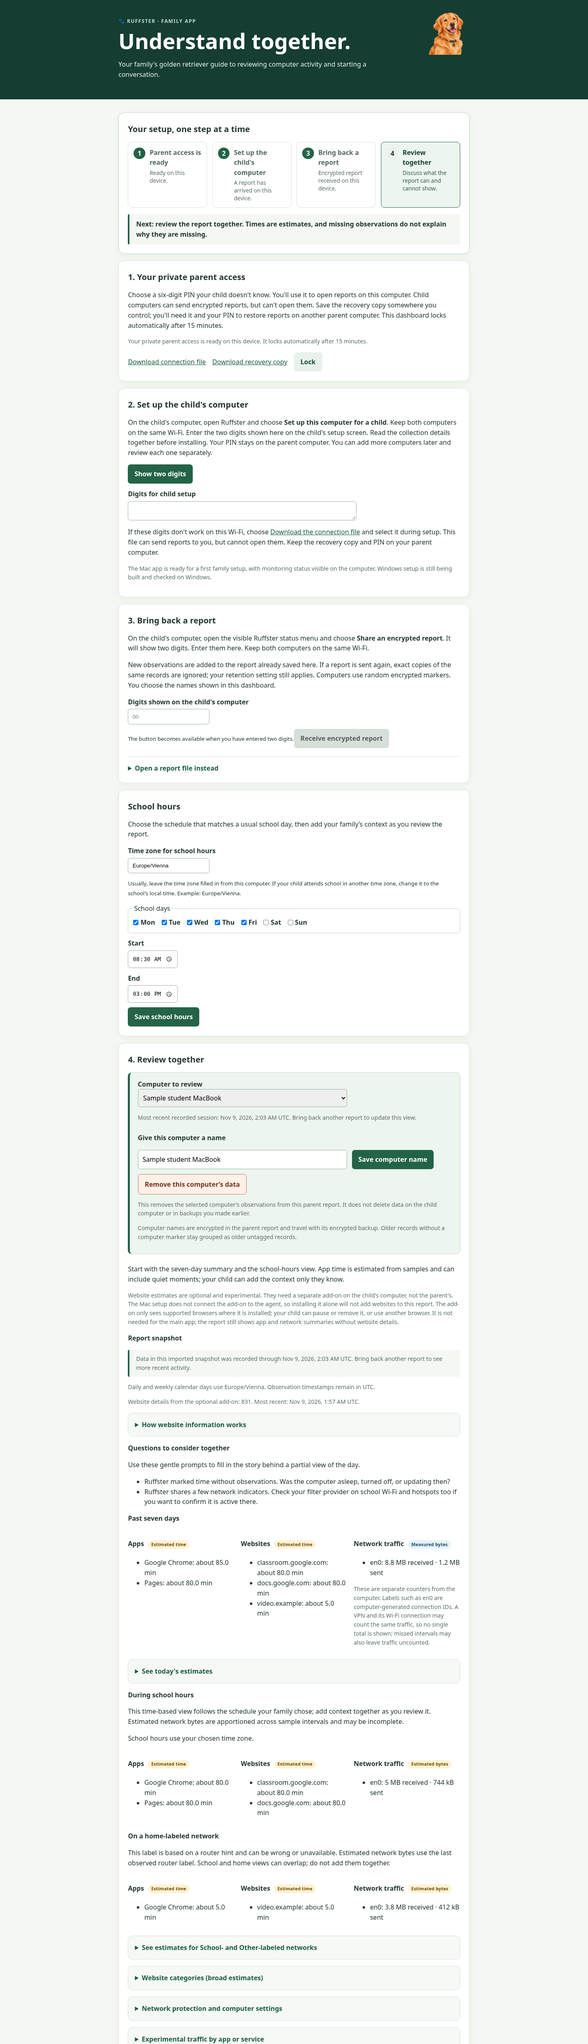
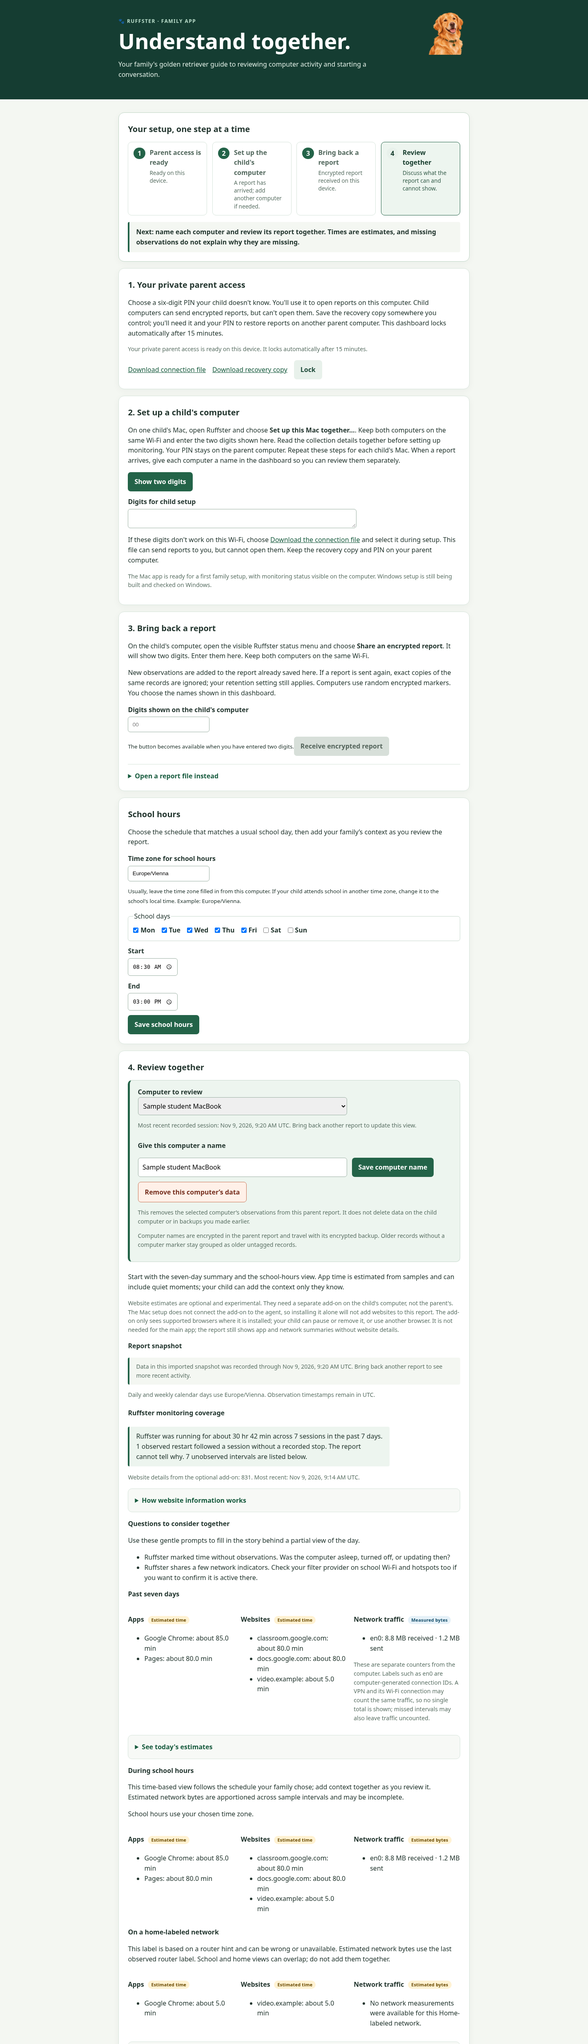
Report observed monitoring restarts

Changed region(s): [[0.2188, 0.0936, 0.7812, 1.0]]

diff --git a/family_activity/parent_assets/index.html b/family_activity/parent_assets/index.html
@@ -18,7 +18,7 @@
 <div class="device-picker"><label for="report-device">Computer to review</label><select id="report-device"></select><p id="device-last-seen" class="fine"></p><form id="device-label-form"><label for="device-label">Give this computer a name</label><input id="device-label" type="text" maxlength="48" autocomplete="off" required><button type="submit">Save computer name</button></form><button id="delete-computer" class="secondary danger" type="button" hidden>Remove this computer’s data</button><p id="delete-computer-help" class="fine">This removes the selected computer’s observations from this parent report. It does not delete data on the child computer or in backups you made earlier.</p><p class="fine">Computer names are encrypted in the parent report and travel with its encrypted backup. Older records without a computer marker stay grouped as older untagged records.</p></div>
 <p>Start with the seven-day summary and the school-hours view. App time is estimated from samples and can include quiet moments; your child can add the context only they know.</p>
 <p class="fine">Website estimates are optional and experimental. They need a separate add-on on the child's computer, not the parent's. The Mac setup does not connect the add-on to the agent, so installing it alone will not add websites to this report. The add-on only sees supported browsers where it is installed; your child can pause or remove it, or use another browser. It is not needed for the main app; the report still shows app and network summaries without website details.</p>
-<h3>Report snapshot</h3><p id="snapshot-note" class="fine"></p><p id="report-timezone-note" class="fine"></p><p id="website-status" class="fine" role="status" aria-live="polite"></p>
+<h3>Report snapshot</h3><p id="snapshot-note" class="fine"></p><p id="report-timezone-note" class="fine"></p><h4>Ruffster monitoring coverage</h4><p id="monitoring-summary" class="coverage-summary" role="status" aria-live="polite"></p><p id="website-status" class="fine" role="status" aria-live="polite"></p>
 <details><summary>How website information works</summary><p>The add-on runs inside supported browsers on the child's computer. It reports domain names only, not full addresses or page contents. Your child can pause or remove it. If a report has no website observations, it cannot tell whether the add-on was paused, disconnected, or simply had nothing to report.</p></details>
 <h3>Questions to consider together</h3><p>Use these gentle prompts to fill in the story behind a partial view of the day.</p><ul id="conversation-prompts"></ul>
 <h3>Past seven days</h3><div class="grid"><div><h4>Apps <span class="measurement-tag estimate">Estimated time</span></h4><ul id="apps-week"></ul></div><div><h4>Websites <span class="measurement-tag estimate">Estimated time</span></h4><ul id="sites-week"></ul></div><div><h4>Network traffic <span class="measurement-tag measured">Measured bytes</span></h4><ul id="traffic-week-summary"></ul><p class="fine">These are separate counters from the computer. Labels such as en0 are computer-generated connection IDs. A VPN and its Wi-Fi connection may count the same traffic, so no single total is shown; missed intervals may also leave traffic uncounted.</p></div></div>

diff --git a/family_activity/parent_assets/app.js b/family_activity/parent_assets/app.js
@@ -239,12 +239,26 @@ async function render() {
   const freshness = data.recorded_through
     ? `Data in this imported snapshot was recorded through ${formatUtcTimestamp(data.recorded_through)}. Bring back another report to see more recent activity.`
     : 'No dated activity has been added to this report yet.';
-  const runtime = data.agent_runtime || {seconds:0,sessions:0,gaps:0};
+  const runtime = data.agent_runtime || {seconds:0,sessions:0,gaps:0,restarts:0};
   const runtimeHours = Math.floor(runtime.seconds / 3600);
   const runtimeMinutes = Math.floor((runtime.seconds % 3600) / 60);
+  const restartCount = runtime.restarts || 0;
+  const restartSummary = restartCount === 1
+    ? '1 observed restart followed a session without a recorded stop'
+    : restartCount === 0
+      ? 'No restarts followed a session without a recorded stop'
+      : `${restartCount} observed restarts followed sessions without recorded stops`;
+  const sessionLabel = `${runtime.sessions} session${runtime.sessions === 1 ? '' : 's'}`;
+  const intervalSummary = runtime.gaps === 1
+    ? '1 unobserved interval is listed below'
+    : `${runtime.gaps} unobserved intervals are listed below`;
+  const runtimeSummary = runtime.sessions
+    ? `Ruffster was running for about ${runtimeHours} hr ${runtimeMinutes} min across ${sessionLabel} in the past ${runtime.days} days. ${restartSummary}. The report cannot tell why. ${intervalSummary}.`
+    : `No Ruffster uptime was recorded in the past ${runtime.days || 7} days.`;
+  $('monitoring-summary').textContent = runtimeSummary;
   const runtimeText = runtime.sessions
-    ? `Recorded agent runtime in the past ${runtime.days} days: about ${runtimeHours} hr ${runtimeMinutes} min across ${runtime.sessions} session(s), with ${runtime.gaps} observed gap(s). Ruffster uptime shows when the agent was running; it is separate from estimated app time.`
-    : `No Ruffster uptime was recorded for the past ${runtime.days || 7} days.`;
+    ? `${runtimeSummary} A restart record does not say why the earlier session ended; that can follow a crash, sleep, power-off, or another interruption. Ruffster uptime shows when the agent was running; it is separate from estimated app time.`
+    : runtimeSummary;
   $('snapshot-note').textContent = freshness;
   $('report-timezone-note').textContent = `Daily and weekly calendar days use ${data.report_timezone || 'UTC'}. Observation timestamps remain in UTC.`;
   const websiteObservations = data.website_observations || {count: 0, latest_at: null};

diff --git a/native/macos/status.swift b/native/macos/status.swift
@@ -169,7 +169,7 @@ final class StatusController: NSObject, NSApplicationDelegate {
         let processNetwork = ProcessInfo.processInfo.environment["FAMILY_ACTIVITY_PROCESS_NETWORK"] == "1"
             ? " Optional app and service network totals are on. Some traffic may appear under helper apps; websites aren't identified."
             : " Optional app and service network totals are off."
-        alert.informativeText = "Ruffster helps your family understand computer use. While you're signed in, it records the name and identifier of the app in front, total network bytes by interface, a private hint when the default router changes, and basic DNS, proxy, and system VPN indicators.\(processNetwork) Website domains are not part of this Mac setup; a separate experimental browser add-on is not connected to this report. The router hint does not show where the computer is, and the router address itself is not saved. Reports are locked on this Mac and can be opened on your parent's computer. Ruffster doesn't record screenshots, typing, messages, microphone, camera, or full website addresses. The menu-bar paw shows when recent samples have been saved. If it says monitoring is paused or disappears, some time may be missing from the report; let your parent know."
+        alert.informativeText = "Ruffster helps your family understand computer use. While you're signed in, it records the name and identifier of the app in front, total network bytes by interface, a private hint when the default router changes, and basic DNS, proxy, and system VPN indicators.\(processNetwork) Website domains are not part of this Mac setup; a separate experimental browser add-on is not connected to this report. The router hint does not show where the computer is, and the router address itself is not saved. Reports are locked on this Mac and can be opened on your parent's computer. Ruffster doesn't record screenshots, typing, messages, microphone, camera, or full website addresses. The menu-bar paw shows when recent samples have been saved. The parent report may show when a new Ruffster session followed an earlier session without a recorded stop, but it cannot tell whether that was a crash, sleep, power-off, or something else. If the paw says monitoring is paused or disappears, some time may be missing from the report; let your parent know."
         alert.addButton(withTitle: "OK")
         NSApplication.shared.activate(ignoringOtherApps: true)
         alert.runModal()

diff --git a/family_activity/parent_assets/app.css b/family_activity/parent_assets/app.css
@@ -10,7 +10,7 @@ details{margin-top:1.25rem;padding-top:1rem;border-top:1px solid #d6e4da}summary
 .measurement-tag{display:inline-block;vertical-align:middle;margin-left:.35rem;padding:.12rem .5rem;border-radius:999px;font-size:.68rem;font-weight:700;line-height:1.5;letter-spacing:.02em;white-space:nowrap}.measurement-tag.estimate{background:#fff2d3;color:#6a4b00}.measurement-tag.measured{background:#e6f1f8;color:#164f6b}.measurement-tag.observed{background:#e8f3eb;color:#1b5b3c}
 .restore-box{margin-top:1.3rem;padding:1.1rem;background:#f4f7f2;border:1px solid #d6e4da;border-radius:10px}.restore-box h3{margin-top:0}.restore-box input[type=password]{width:min(100%,28rem)}
 .backup-required{margin:1rem 0;padding:1rem 1.15rem;background:#fff5df;border:1px solid #e5c77d;border-left:5px solid #b87919;border-radius:10px}.backup-required h3{margin:.1rem 0 .35rem;color:#543900}.backup-required p{max-width:68ch}.backup-confirm-label{display:flex;align-items:flex-start;gap:.6rem;max-width:55rem}.backup-confirm-label input{flex:0 0 auto;margin:.25rem 0 0}
-.report-card>details{margin:1rem 0;padding:1rem;background:#f7f9f6;border:1px solid #d6e4da;border-radius:10px}.report-card>details>summary{font-size:1rem}.report-card>details>h3:first-of-type{margin-top:1.5rem}.report-card>details[open]>summary{margin-bottom:.7rem}.report-card #snapshot-note{padding:.7rem 1rem;background:#f4f7f2;border-left:4px solid #236348;border-radius:4px}.report-card #coverage{max-width:70ch}
+.report-card>details{margin:1rem 0;padding:1rem;background:#f7f9f6;border:1px solid #d6e4da;border-radius:10px}.report-card>details>summary{font-size:1rem}.report-card>details>h3:first-of-type{margin-top:1.5rem}.report-card>details[open]>summary{margin-bottom:.7rem}.report-card #snapshot-note{padding:.7rem 1rem;background:#f4f7f2;border-left:4px solid #236348;border-radius:4px}.report-card #monitoring-summary{max-width:70ch;padding:.7rem 1rem;background:#edf5ef;border-left:4px solid #236348;border-radius:4px}.report-card #coverage{max-width:70ch}
 
 .mascot{float:right;width:104px;height:104px;object-fit:contain;margin:-.5rem 0 .5rem 1rem}@media(max-width:480px){.mascot{width:76px;height:76px}}
 

diff --git a/docs/progress.html b/docs/progress.html
@@ -62,7 +62,7 @@
     <p>These examples use made-up parent and activity data to show the current setup and report screens.</p>
     <div class="detail-grid">
      <figure class="photo-card"><a href="assets/parent-setup.png"><img src="assets/parent-setup.png" alt="Ruffster parent setup screen with a blank six-digit PIN form and recovery-copy instructions" loading="lazy"/></a><figcaption class="photo-caption">Parent access and recovery setup · synthetic example</figcaption></figure>
-     <figure class="photo-card"><a href="assets/parent-dashboard.png"><img src="assets/parent-dashboard.png" alt="Ruffster parent report with synthetic app and network observations, labeled estimates, and conversation prompts" loading="lazy"/></a><figcaption class="photo-caption">Parent report and discussion prompts · synthetic example</figcaption></figure>
+     <figure class="photo-card"><a href="assets/parent-dashboard.png"><img src="assets/parent-dashboard.png" alt="Ruffster parent report with synthetic app and network observations, monitoring uptime and a restart after an unclosed session, labeled estimates, and conversation prompts" loading="lazy"/></a><figcaption class="photo-caption">Parent report and discussion prompts · synthetic example</figcaption></figure>
     </div>
     <h2>Where to follow the work</h2>
     <ul>

diff --git a/native/macos/setup.swift b/native/macos/setup.swift
@@ -496,6 +496,8 @@ final class SetupController: NSObject, NSApplicationDelegate, NSWindowDelegate {
 
         The menu-bar status icon must stay visible to the child. Reports are locked on this Mac and can be opened on the parent's computer. Keep this app in its current location; moving it may stop monitoring.
 
+        The parent report may show when a new session followed an earlier session without a recorded stop. It cannot tell whether that was a crash, sleep, power-off, or another interruption.
+
         Choose the maximum time to keep detailed records here. Records are removed while monitoring runs; calendar-day rounding may remove them up to a day before that limit. Removing monitoring keeps the encrypted report and Ruffster connection details unless you choose to delete them. Reports already shared elsewhere and other copies are not affected.
         """
         disclosureText.setAccessibilityLabel("Ruffster collection and retention details")

diff --git a/tests/test_parent_app.py b/tests/test_parent_app.py
@@ -103,6 +103,8 @@ class ParentAppTests(unittest.TestCase):
         self.assertIn(b'During school hours', page)
         self.assertIn(b'Network protection and computer settings', page)
         self.assertIn(b'Monitoring coverage details', page)
+        self.assertIn(b'Ruffster monitoring coverage', page)
+        self.assertIn(b'id="monitoring-summary"', page)
         self.assertIn(b'id="snapshot-note"', page)
         self.assertIn(b'id="report-timezone-note"', page)
         self.assertIn(b'home router', page)
@@ -120,7 +122,7 @@ class ParentAppTests(unittest.TestCase):
         self.assertIn(b"/api/confirm-key-backup", script)
         self.assertIn(b"$('report-transfer').hidden = !status.unlocked", script)
         self.assertIn(b"status.has_report", script)
-        self.assertIn(b'Recorded agent runtime', script)
+        self.assertIn(b'Ruffster was running for about', script)
         self.assertIn(b'Ruffster uptime shows when the agent was running', script)
         self.assertIn(b'No website details were recorded for this period.', script)
         self.assertIn(b'No pauses are listed in this report.', script)
@@ -295,11 +297,12 @@ class ParentAppTests(unittest.TestCase):
         path = Path(self.tmp.name)/'source.db'
         writer = EncryptedAgentStore(path, decode(public), 30)
         from datetime import datetime, timedelta, timezone
-        sample = datetime.now(timezone.utc)
-        writer.event('start')
-        writer.event('foreground', application=['SYNTHETIC_PARENT_APP','test'])
-        writer.event('network_identity', identifier='c'*64)
-        writer.event('network_settings', dns_observed=True, proxy_indicator=False, vpn_indicator=None)
+        sample = datetime.now(timezone.utc) - timedelta(minutes=5)
+        writer.event('start', at=(sample-timedelta(seconds=30)).isoformat())
+        writer.event('foreground', application=['SYNTHETIC_PARENT_APP','test'], at=sample.isoformat())
+        writer.event('network_identity', identifier='c'*64, at=sample.isoformat())
+        writer.event('network_settings', dns_observed=True, proxy_indicator=False, vpn_indicator=None,
+                     at=sample.isoformat())
         writer.event('network', at=sample.isoformat(), intervals=[[
             (sample-timedelta(seconds=15)).isoformat(), sample.isoformat(), 'en0', 1024, 256]])
         writer.event('website', domain='youtube.com', at=(sample-timedelta(seconds=15)).isoformat())
@@ -307,7 +310,11 @@ class ParentAppTests(unittest.TestCase):
         writer.event('process_network_status', state='enabled', at=sample.isoformat())
         writer.event('process_network', process='SyntheticBrowser', received_bytes=2400000000,
                      sent_bytes=123456, at=sample.isoformat())
-        writer.event('stop'); writer.close()
+        writer.event('heartbeat', at=sample.isoformat()); writer.close()
+        restarted = EncryptedAgentStore(path, decode(public), 30)
+        restarted.event('start', at=(sample+timedelta(seconds=30)).isoformat())
+        restarted.event('stop', at=(sample+timedelta(seconds=45)).isoformat())
+        restarted.close()
         import sqlite3
         extra = sqlite3.connect(path)
         extra.execute('CREATE TABLE unrelated(secret TEXT)')
@@ -318,10 +325,14 @@ class ParentAppTests(unittest.TestCase):
         self.assertEqual(status, 200)
         report_data=json.loads(report)
         self.assertTrue(any('network indicators' in prompt for prompt in report_data['conversation_prompts']))
-        self.assertEqual(len(report_data['sessions']), 1)
+        self.assertEqual(len(report_data['sessions']), 2)
         self.assertIn('agent_runtime', report_data)
         self.assertGreaterEqual(report_data['agent_runtime']['seconds'], 0)
-        self.assertEqual(report_data['agent_runtime']['sessions'], 1)
+        self.assertEqual(report_data['agent_runtime']['sessions'], 2)
+        self.assertEqual(report_data['agent_runtime']['restarts'], 1)
+        dashboard_script = (Path(__file__).parents[1] / 'family_activity' / 'parent_assets' / 'app.js').read_text(encoding='utf-8')
+        self.assertIn('const restartSummary =', dashboard_script)
+        self.assertIn('followed a session without a recorded stop', dashboard_script)
         self.assertEqual(report_data['website_observations']['count'], 2)
         self.assertEqual(report_data['website_observations']['latest_at'], sample.isoformat())
         self.assertTrue(report_data['contexts']['schedule_configured'])

diff --git a/family_activity/plaintext_migration.py b/family_activity/plaintext_migration.py
@@ -31,6 +31,7 @@ OPTIONAL_EMPTY_SCHEMA = {
     'process_network_samples': {'id', 'session_id', 'sampled_at', 'process_name', 'received_bytes', 'sent_bytes'},
     'process_network_status': {'id', 'session_id', 'sampled_at', 'state'},
 }
+SESSION_OPTIONAL_COLUMNS = {'device_id', 'restarted_after_unclean_exit'}
 MAX_COUNTER = 2**63 - 1
 
 
@@ -69,7 +70,7 @@ def _secure_event_streams(db, sessions):
                 raise ValueError('plaintext database contains an invalid row id')
             yield (timestamp, int(sid), priority, row_id, event_type, sid, convert(row[3:]))
 
-    return [
+    streams = [
         stream('SELECT started_at,id,id FROM sessions ORDER BY started_at,id', 'start', 0,
                lambda fields: {}),
         stream('SELECT sampled_at,session_id,id,app_name,bundle_id FROM foreground_samples ORDER BY sampled_at,session_id,id',
@@ -91,6 +92,12 @@ def _secure_event_streams(db, sessions):
         stream('SELECT stopped_at,id,id FROM sessions WHERE stopped_at IS NOT NULL ORDER BY stopped_at,id',
                'stop', 8, lambda fields: {}),
     ]
+    session_columns = {row[1] for row in db.execute('PRAGMA table_info(sessions)')}
+    if 'restarted_after_unclean_exit' in session_columns:
+        streams.insert(1, stream(
+            'SELECT started_at,id,id FROM sessions WHERE restarted_after_unclean_exit=1 ORDER BY started_at,id',
+            'restart_marker', 1, lambda fields: {}))
+    return streams
 
 
 def _application(fields):
@@ -174,11 +181,18 @@ def encrypt_legacy_database(source_path, public_key_path, output_path, retention
             if name not in tables:
                 continue
             columns = {row[1] for row in source.execute(f'PRAGMA table_info("{name}")')}
-            accepted = (expected, expected | {'device_id'}) if name == 'sessions' else (expected,)
+            accepted = tuple(expected | extensions for extensions in (
+                set(), {'device_id'}, {'restarted_after_unclean_exit'}, SESSION_OPTIONAL_COLUMNS
+            )) if name == 'sessions' else (expected,)
             if columns not in accepted:
                 raise ValueError('source activity database schema is unsupported')
             if name in OPTIONAL_EMPTY_SCHEMA and source.execute(f'SELECT 1 FROM "{name}" LIMIT 1').fetchone() is not None:
                 raise ValueError('source contains newer process network records that this migration cannot preserve')
+        if 'restarted_after_unclean_exit' in {row[1] for row in source.execute('PRAGMA table_info(sessions)')}:
+            invalid_restart = source.execute(
+                'SELECT 1 FROM sessions WHERE restarted_after_unclean_exit NOT IN (0,1) LIMIT 1').fetchone()
+            if invalid_restart is not None:
+                raise ValueError('source contains an invalid restart marker')
         if source.execute('PRAGMA foreign_key_check').fetchone() is not None:
             raise ValueError('plaintext source contains broken session references')
         gap_rows = source.execute('SELECT count(*) FROM gaps').fetchone()[0]

diff --git a/tests/test_store.py b/tests/test_store.py
@@ -19,15 +19,41 @@ class StoreTests(unittest.TestCase):
         store.stop(self.db, sid, '2026-01-01T00:00:20+00:00')
         store.start(self.db, '2026-01-01T00:01:00+00:00')
         self.assertEqual(self.db.execute('SELECT COUNT(*) FROM gaps').fetchone()[0], 0)
+        self.assertEqual(self.db.execute('SELECT restarted_after_unclean_exit FROM sessions ORDER BY id DESC LIMIT 1').fetchone()[0], 0)
 
     def test_unclean_stop_records_last_heartbeat_to_next_start_once(self):
         sid = store.start(self.db, '2026-01-01T00:00:00+00:00')
         store.heartbeat(self.db, sid, '2026-01-01T00:00:10+00:00')
         new = store.start(self.db, '2026-01-01T00:01:00+00:00')
+        self.assertEqual(self.db.execute('SELECT restarted_after_unclean_exit FROM sessions WHERE id = ?', (new,)).fetchone()[0], 1)
         self.assertEqual(self.db.execute('SELECT from_at, to_at FROM gaps').fetchall(), [('2026-01-01T00:00:10+00:00', '2026-01-01T00:01:00+00:00')])
         store.stop(self.db, new, '2026-01-01T00:01:10+00:00')
         store.start(self.db, '2026-01-01T00:02:00+00:00')
         self.assertEqual(self.db.execute('SELECT COUNT(*) FROM gaps').fetchone()[0], 1)
+        self.assertEqual(self.db.execute('SELECT restarted_after_unclean_exit FROM sessions ORDER BY id DESC LIMIT 1').fetchone()[0], 0)
+
+    def test_unknown_expired_session_does_not_claim_a_restart(self):
+        sid = store.start(self.db, '2026-01-01T00:00:00+00:00')
+        self.db.execute("UPDATE sessions SET started_at = 'Start unavailable' WHERE id = ?", (sid,))
+        current = store.start(self.db, '2026-01-01T00:01:00+00:00')
+        self.assertEqual(self.db.execute('SELECT restarted_after_unclean_exit FROM sessions WHERE id = ?', (current,)).fetchone()[0], 0)
+
+    def test_existing_session_database_adds_restart_marker_without_losing_records(self):
+        import sqlite3
+        path = Path(self.tmp.name) / 'older.db'
+        old = sqlite3.connect(path)
+        old.execute('CREATE TABLE sessions (id INTEGER PRIMARY KEY, started_at TEXT NOT NULL, heartbeat_at TEXT NOT NULL, stopped_at TEXT)')
+        old.execute('INSERT INTO sessions VALUES (1, ?, ?, NULL)',
+                    ('2026-01-01T00:00:00+00:00', '2026-01-01T00:00:10+00:00'))
+        old.commit(); old.close()
+        migrated = store.connect(path)
+        try:
+            self.assertEqual(migrated.execute('SELECT started_at, device_id, restarted_after_unclean_exit FROM sessions').fetchall(),
+                             [('2026-01-01T00:00:00+00:00', 'legacy', 0)])
+            self.assertEqual(store.start(migrated, '2026-01-01T00:01:00+00:00'), 2)
+            self.assertEqual(migrated.execute('SELECT restarted_after_unclean_exit FROM sessions WHERE id = 2').fetchone()[0], 1)
+        finally:
+            migrated.close()
 
     def test_backwards_clock_does_not_create_negative_gap(self):
         store.start(self.db, '2026-01-02T00:00:00+00:00')

diff --git a/family_activity/store.py b/family_activity/store.py
@@ -35,7 +35,8 @@ def initialize(db):
         CREATE TABLE IF NOT EXISTS sessions (
           id INTEGER PRIMARY KEY, started_at TEXT NOT NULL,
           heartbeat_at TEXT NOT NULL, stopped_at TEXT,
-          device_id TEXT NOT NULL DEFAULT 'legacy'
+          device_id TEXT NOT NULL DEFAULT 'legacy',
+          restarted_after_unclean_exit INTEGER NOT NULL DEFAULT 0
         );
         CREATE TABLE IF NOT EXISTS foreground_samples (
           id INTEGER PRIMARY KEY, session_id INTEGER NOT NULL, sampled_at TEXT NOT NULL,
@@ -80,18 +81,26 @@ def initialize(db):
     if 'device_id' not in columns:
         db.execute("ALTER TABLE sessions ADD COLUMN device_id TEXT NOT NULL DEFAULT 'legacy'")
         db.commit()
+        columns.add('device_id')
+    if 'restarted_after_unclean_exit' not in columns:
+        db.execute('ALTER TABLE sessions ADD COLUMN restarted_after_unclean_exit INTEGER NOT NULL DEFAULT 0')
+        db.commit()
 
 
 def start(db, timestamp=None, device_id='legacy'):
     timestamp = timestamp or now()
     with db:
-        for sid, heartbeat in db.execute("SELECT id, heartbeat_at FROM sessions WHERE stopped_at IS NULL AND device_id = ?", (device_id,)).fetchall():
+        open_sessions = db.execute(
+            "SELECT id, heartbeat_at, started_at FROM sessions WHERE stopped_at IS NULL AND device_id = ?",
+            (device_id,)).fetchall()
+        restarted = any(started_at != 'Start unavailable' for _, _, started_at in open_sessions)
+        for sid, heartbeat, _ in open_sessions:
             # A backward clock makes the interval unknowable; don't invent a negative gap.
             if timestamp >= heartbeat:
                 db.execute("INSERT INTO gaps(session_id, from_at, to_at) VALUES (?, ?, ?)", (sid, heartbeat, timestamp))
             db.execute("UPDATE sessions SET stopped_at = ? WHERE id = ?", (heartbeat, sid))
-        return db.execute("INSERT INTO sessions(started_at, heartbeat_at, device_id) VALUES (?, ?, ?)",
-                          (timestamp, timestamp, device_id)).lastrowid
+        return db.execute("INSERT INTO sessions(started_at, heartbeat_at, device_id, restarted_after_unclean_exit) VALUES (?, ?, ?, ?)",
+                          (timestamp, timestamp, device_id, int(restarted))).lastrowid
 
 
 def heartbeat(db, sid, timestamp=None):

diff --git a/family_activity/reports.py b/family_activity/reports.py
@@ -216,7 +216,9 @@ def agent_runtime(sessions, gaps, as_of, days=7):
     """Summarize recorded agent session time, excluding known gaps.
 
     This is process-session coverage, not proof that every collector succeeded
-    or that the computer was actively used. Missing session starts are ignored.
+    or that the computer was actively used. Restart counts identify sessions
+    following an unclosed session; they do not determine why it ended. Missing
+    session starts are ignored.
     """
     if as_of.tzinfo is None or days < 1:
         raise ValueError('as_of must be timezone-aware and days must be positive')
@@ -224,16 +226,22 @@ def agent_runtime(sessions, gaps, as_of, days=7):
     boundary = end - timedelta(days=days)
     spans = []
     session_count = 0
-    for started_at, heartbeat_at, stopped_at in sessions:
+    restart_count = 0
+    for row in sessions:
+        started_at, heartbeat_at, stopped_at = row[:3]
+        restarted_after_unclean_exit = bool(row[3]) if len(row) > 3 else False
         try:
             start = datetime.fromisoformat(started_at)
             last = datetime.fromisoformat(stopped_at or heartbeat_at)
             if start.tzinfo is None or last.tzinfo is None:
                 continue
-            start = max(start.astimezone(timezone.utc), boundary)
+            start = start.astimezone(timezone.utc)
             last = min(last.astimezone(timezone.utc), end)
         except (TypeError, ValueError):
             continue
+        if restarted_after_unclean_exit and boundary <= start <= end:
+            restart_count += 1
+        start = max(start, boundary)
         if last <= start:
             continue
         session_count += 1
@@ -273,7 +281,8 @@ def agent_runtime(sessions, gaps, as_of, days=7):
                     for session_start, session_end in merged)
     runtime = sum((finish - start).total_seconds() for start, finish in merged)
     return {'seconds': max(0.0, runtime - gap_total),
-            'sessions': session_count, 'gaps': gap_count, 'days': days}
+            'sessions': session_count, 'gaps': gap_count,
+            'restarts': restart_count, 'days': days}
 
 
 def contextual_estimates(samples, network_changes, labels, schedule, as_of, max_gap_seconds=30):

diff --git a/tests/test_plaintext_migration.py b/tests/test_plaintext_migration.py
@@ -38,13 +38,11 @@ class PlaintextMigrationTests(unittest.TestCase):
         try:
             first = store.start(db, stamp(start))
             first_stop = start + timedelta(seconds=30)
-            store.stop(db, first, stamp(first_stop))
+            store.heartbeat(db, first, stamp(first_stop))
             second_start = start + timedelta(seconds=90)
             second = store.start(db, stamp(second_start))
             store.stop(db, second, stamp(second_start + timedelta(seconds=30)))
             with db:
-                db.execute('INSERT INTO gaps(session_id,from_at,to_at) VALUES (?,?,?)',
-                           (first, stamp(first_stop), stamp(second_start)))
                 db.execute('INSERT INTO foreground_samples(session_id,sampled_at,app_name,bundle_id) VALUES (?,?,?,?)',
                            (first, stamp(start + timedelta(seconds=5)), 'LEGACY_PRIVATE_APP', 'example.bundle'))
                 db.execute('INSERT INTO foreground_samples(session_id,sampled_at,app_name,bundle_id) VALUES (?,?,?,?)',
@@ -82,6 +80,8 @@ class PlaintextMigrationTests(unittest.TestCase):
             self.assertFalse(incomplete)
             self.assertEqual(projection.execute('SELECT count(*) FROM sessions').fetchone()[0], 2)
             self.assertEqual(projection.execute('SELECT count(*) FROM gaps').fetchone()[0], 1)
+            self.assertEqual(projection.execute('SELECT restarted_after_unclean_exit FROM sessions ORDER BY id').fetchall(),
+                             [(0,), (1,)])
             self.assertEqual(projection.execute('SELECT app_name FROM foreground_samples LIMIT 1').fetchone()[0],
                              'LEGACY_PRIVATE_APP')
             self.assertEqual(projection.execute('SELECT domain FROM website_samples').fetchone()[0], 'example.org')
